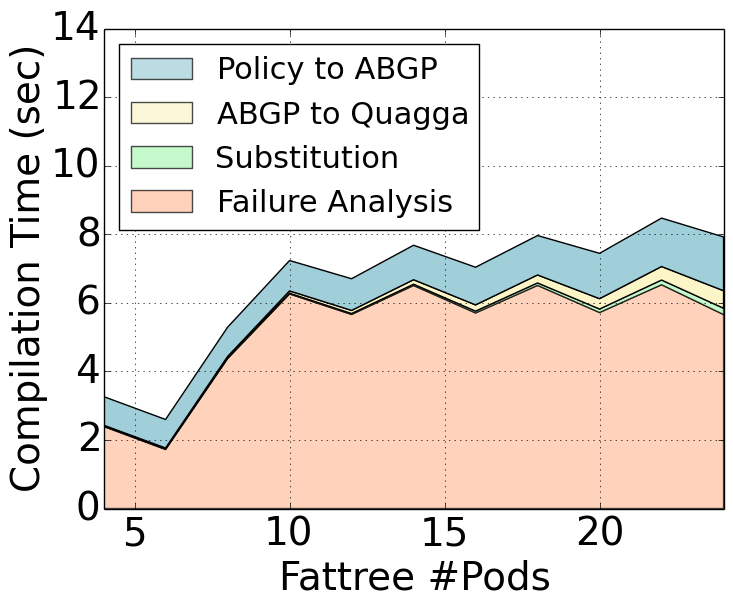
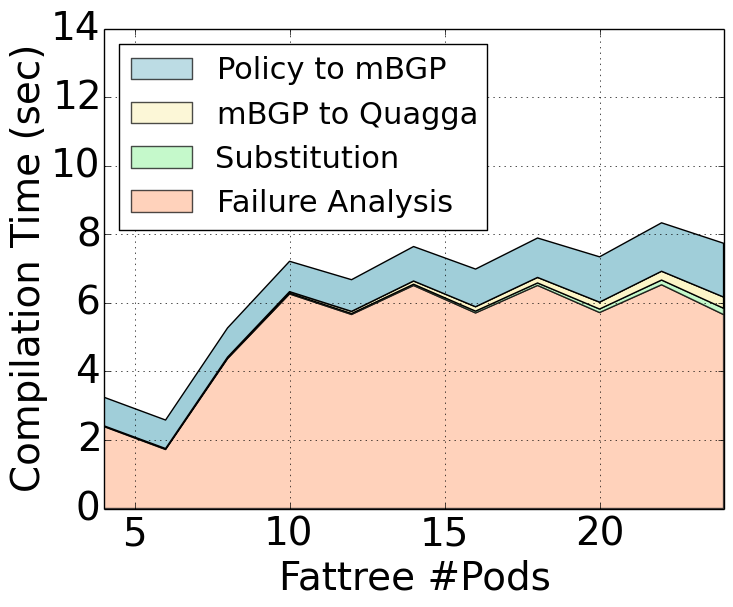
update graphs with proper mBGP name

diff --git a/scripts/abstract/plot.py b/scripts/abstract/plot.py
@@ -130,6 +130,7 @@ def makeGraph(con, abs, name, descr):
 
   # stack data lowest -> highest (build, minimize, order, gen, compress)
   other = map(lambda (w,x,y,z): w-x-y-z, zip(totalAbs,aggAbs,subAbs,genCore))
+  genCore = map(lambda (x,y): x - y, zip(genCore,subAbs)) # avoid counting twice
   data = (aggAbs, subAbs, genCore, other)
   y_stack = np.cumsum(np.row_stack( data ), axis=0)
 
@@ -157,7 +158,7 @@ def makeGraph(con, abs, name, descr):
   p3 = plt.Rectangle((0, 0), 1, 1, fc=color3, alpha=.7)
   p4 = plt.Rectangle((0, 0), 1, 1, fc=color4, alpha=.7)
   leg_boxes = [p4, p3, p2, p1]
-  descrs = ["Policy to ABGP", "ABGP to Quagga", "Substitution", "Failure Analysis"]
+  descrs = ["Policy to mBGP", "mBGP to Quagga", "Substitution", "Failure Analysis"]
   ax1.legend(leg_boxes, descrs, loc=2, fontsize=22)
   fig.savefig(direct + '/graphs/' + name + '-analysis-time.png', bbox_inches='tight')
 
